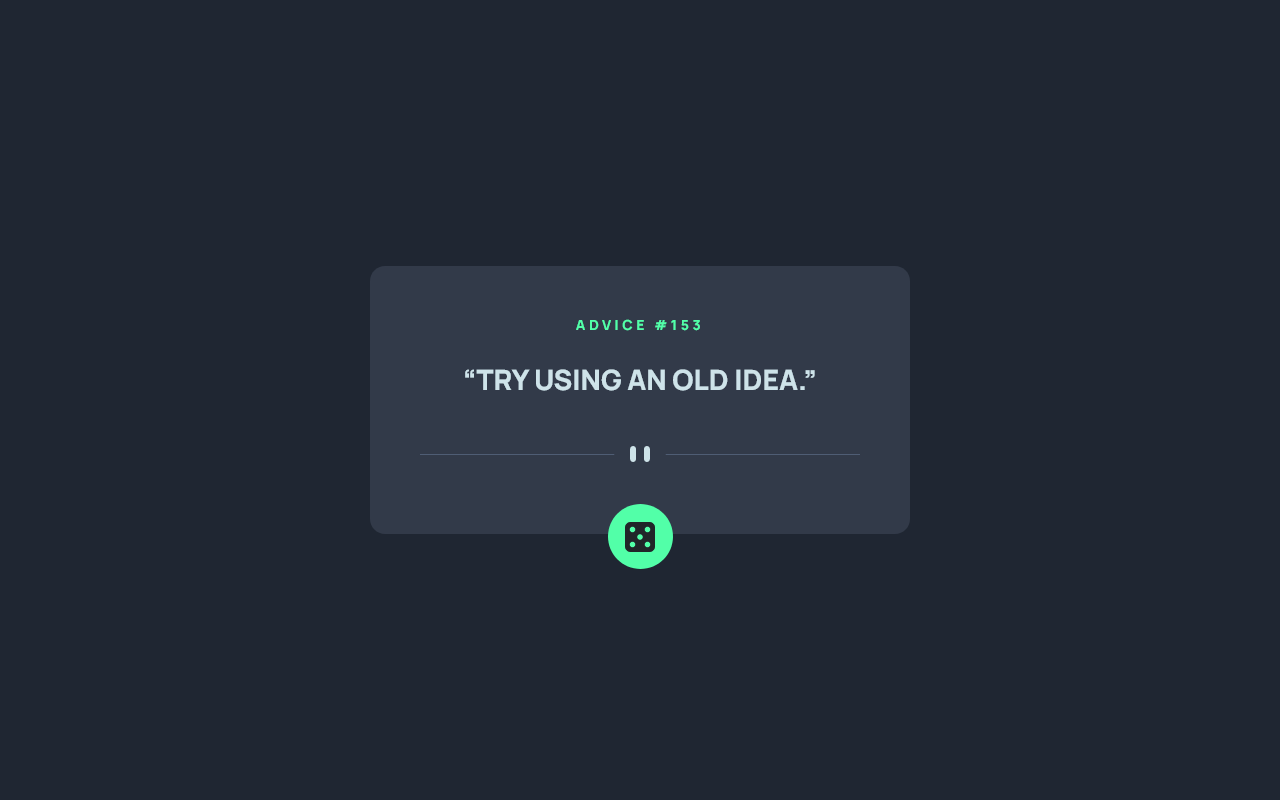
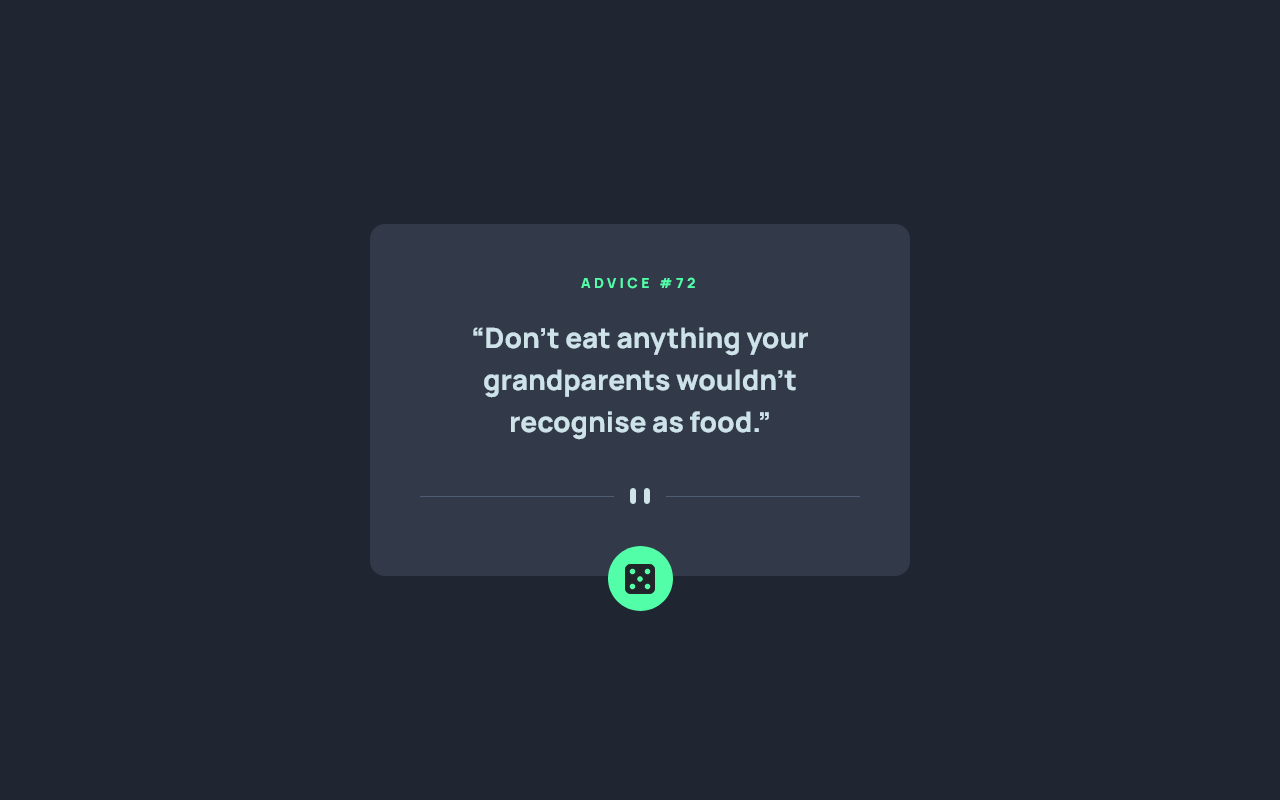
Update advice styles

Changed region(s): [[0.375, 0.4062, 0.625, 0.5625], [0.4688, 0.625, 0.5312, 0.7812], [0.4688, 0.3438, 0.5312, 0.375]]

diff --git a/index.html b/index.html
@@ -53,8 +53,8 @@
 				<div class="col">
 					<!-- Advice Start -->
 					<!-- I'm currently investigating the best way to include the necessary accessibility attributes for this project. They will be added soon. -->
-					<div class="advice-container text-center mx-auto d-flex flex-column flex-wrap align-items-center text-uppercase">
-						<h2 class="advice-id">advice #<span id="adviceID"></span></h2>
+					<div class="advice-container text-center mx-auto d-flex flex-column flex-wrap align-items-center">
+						<h2 class="advice-id text-uppercase">advice #<span id="adviceID"></span></h2>
 						<blockquote class="advice-text" id="adviceText">...</blockquote>
 						<picture class="w-100">
 							<source media="(min-width:400px)" srcset="./images/pattern-divider-desktop.svg" />
